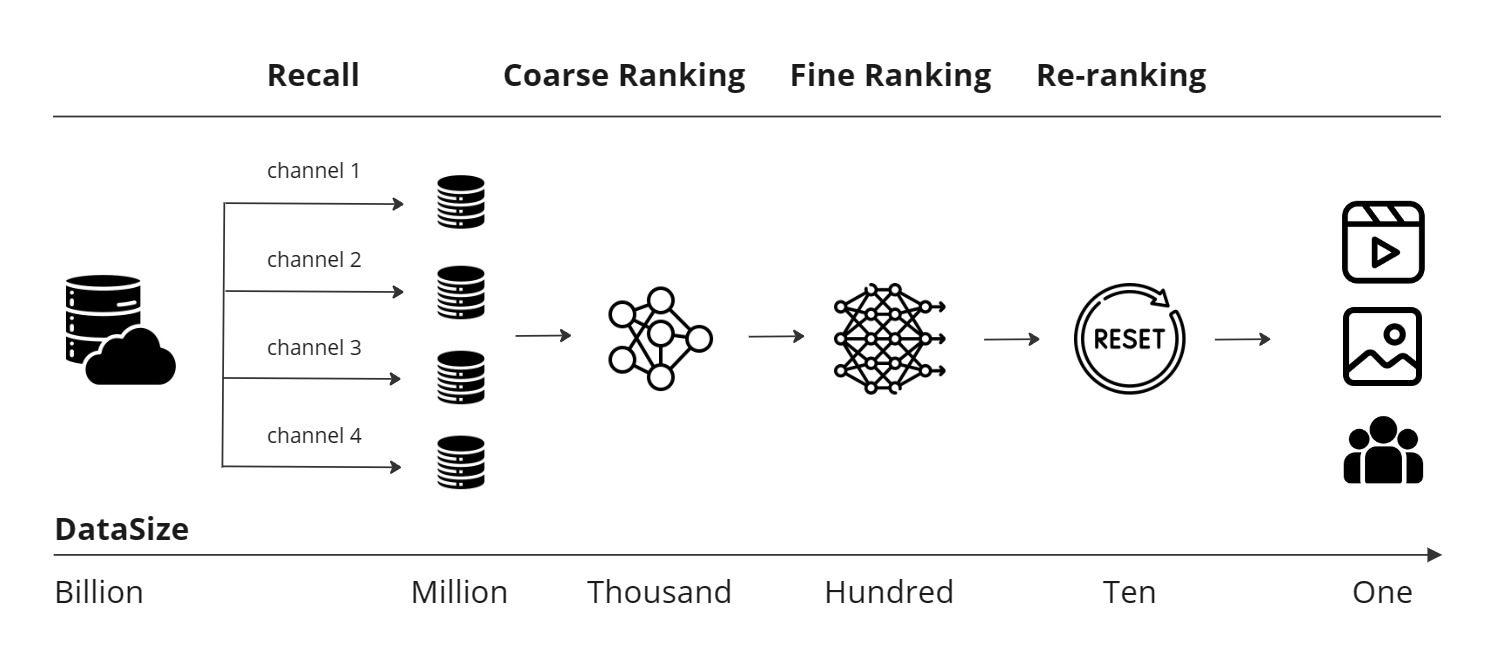
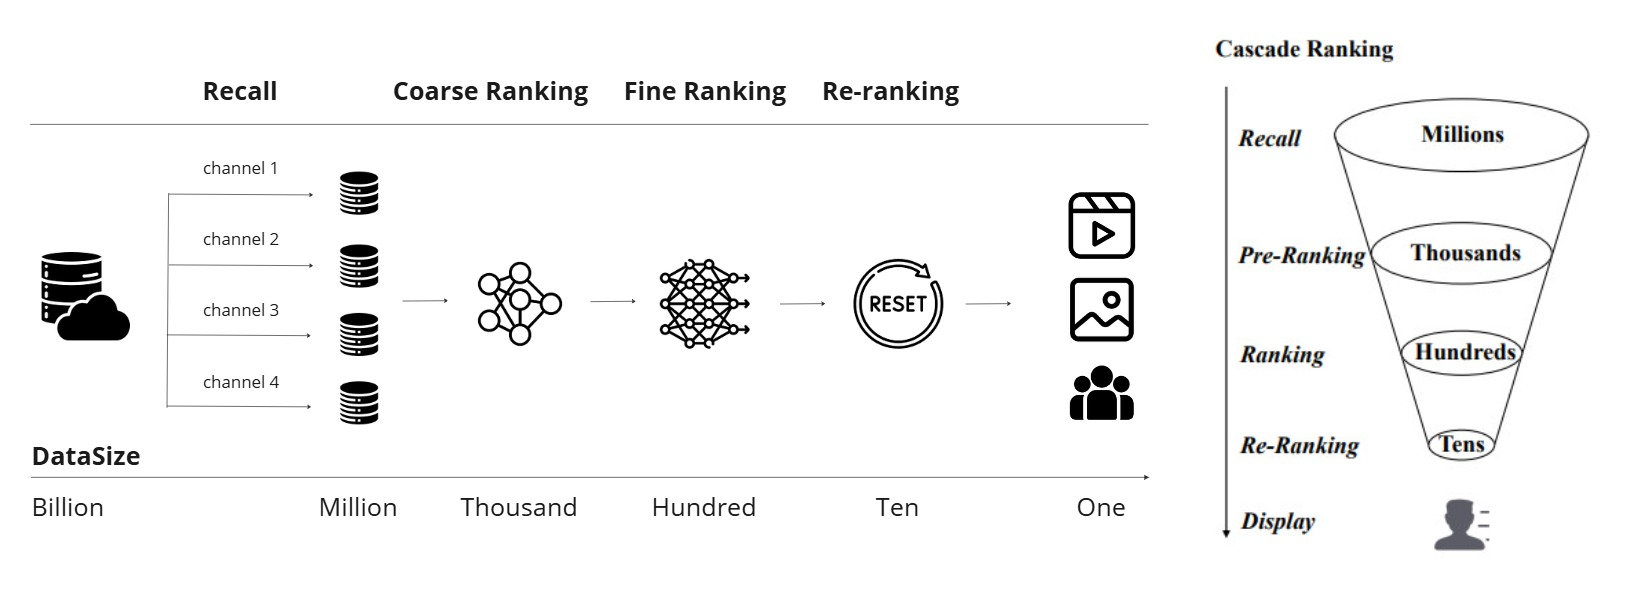
2024.05/27

diff --git a/README.md b/README.md
@@ -5,6 +5,7 @@ The goal is to create a system that can rival the performance of Xiaohongshu's r
 
 ### Steps for a recommendation system
 ![alt text](https://github.com/helgesander02/recommendationsystem_study/blob/main/img/process.jpg)
+
 ### Experimental Steps for the TMDB 5000 Movie Dataset
 
 ## Data
@@ -17,7 +18,7 @@ The goal is to create a system that can rival the performance of Xiaohongshu's r
 * [Why study recommender systems (Chinese)](https://www.youtube.com/playlist?list=PLCemT-oocgalODXpQ-EP_IfrrD-A--40h)
 * [RecommenderSystem (Chinese)](https://github.com/wangshusen/RecommenderSystem)
 * [Learning Resources (Chinese)](https://zhuanlan.zhihu.com/p/180542782)
-* [Breaking the Barrier: Utilizing Large Language Models for Industrial Recommendation Systems through an Inferential Knowledge Graph](https://arxiv.org/pdf/2402.13750)
+* [Adaptive Neural Ranking Framework: Toward Maximized Business Goal for Cascade Ranking Systems](https://arxiv.org/pdf/2310.10462)
 
 ### AB testing
 * [Overlapping Experiment Infrastructure:More, Better, Faster Experimentation](https://storage.googleapis.com/pub-tools-public-publication-data/pdf/36500.pdf)

diff --git a/Recall/itemCF/README.md b/Recall/itemCF/README.md
@@ -1,2 +1,3 @@
 ![alt text](https://github.com/helgesander02/recommendationsystem_study/blob/main/img/itemCF1.jpg)
-![alt text](https://github.com/helgesander02/recommendationsystem_study/blob/main/img/itemCF2.jpg)
+![alt text](https://github.com/helgesander02/recommendationsystem_study/blob/main/img/itemCFOfflinePhase.jpg)
+![alt text](https://github.com/helgesander02/recommendationsystem_study/blob/main/img/itemCFOnlinePhase.jpg)

diff --git a/Recall/userCF/README.md b/Recall/userCF/README.md
@@ -1,1 +1,3 @@
 ![alt text](https://github.com/helgesander02/recommendationsystem_study/blob/main/img/userCF1.jpg)
+![alt text](https://github.com/helgesander02/recommendationsystem_study/blob/main/img/userCFOfflinePhase.jpg)
+![alt text](https://github.com/helgesander02/recommendationsystem_study/blob/main/img/userCFOnlinePhase.jpg)

diff --git a/Recall/swing/README.md b/Recall/swing/README.md
@@ -1,0 +1,1 @@
+![alt text](https://github.com/helgesander02/recommendationsystem_study/blob/main/img/swing1.jpg)
